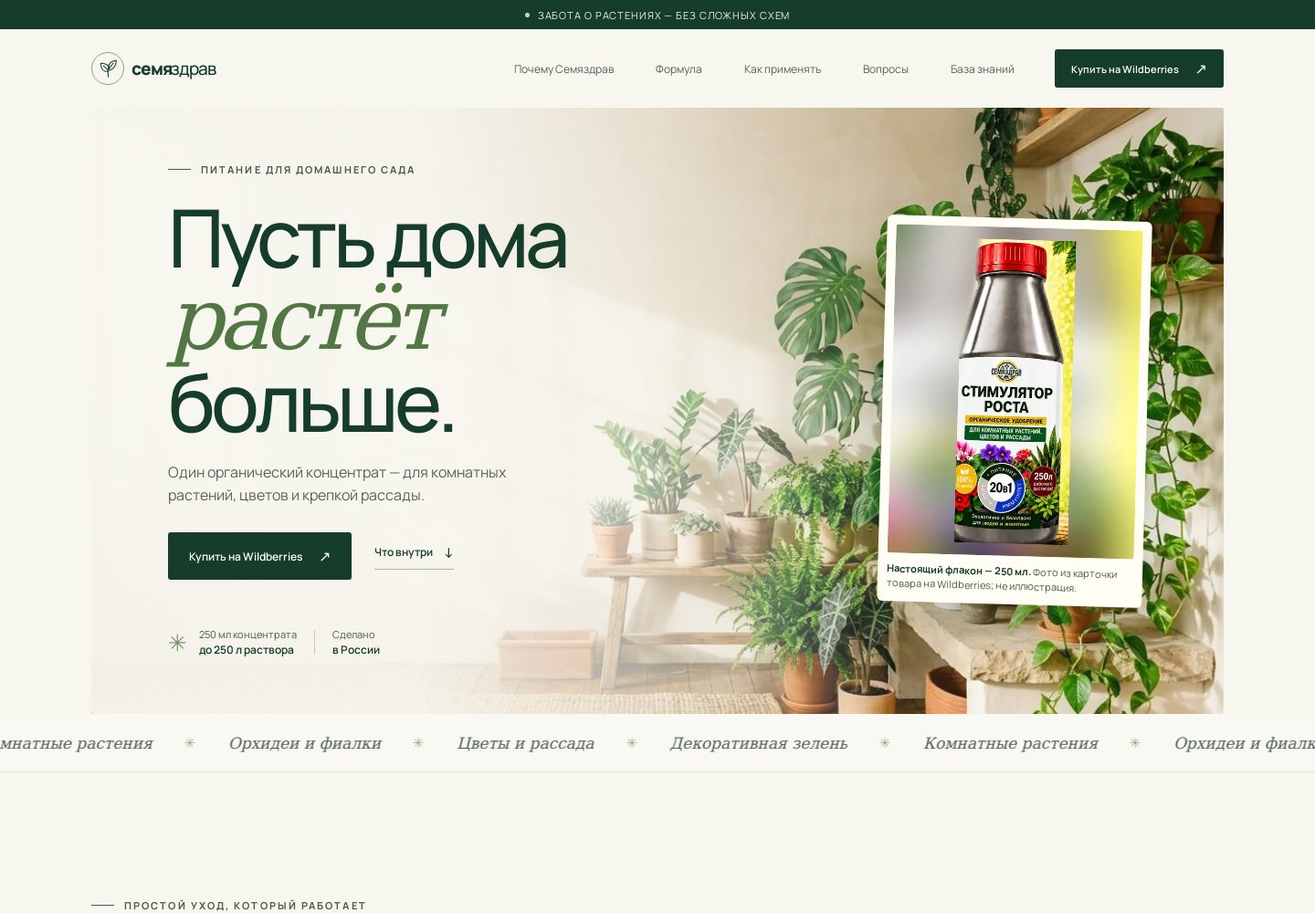
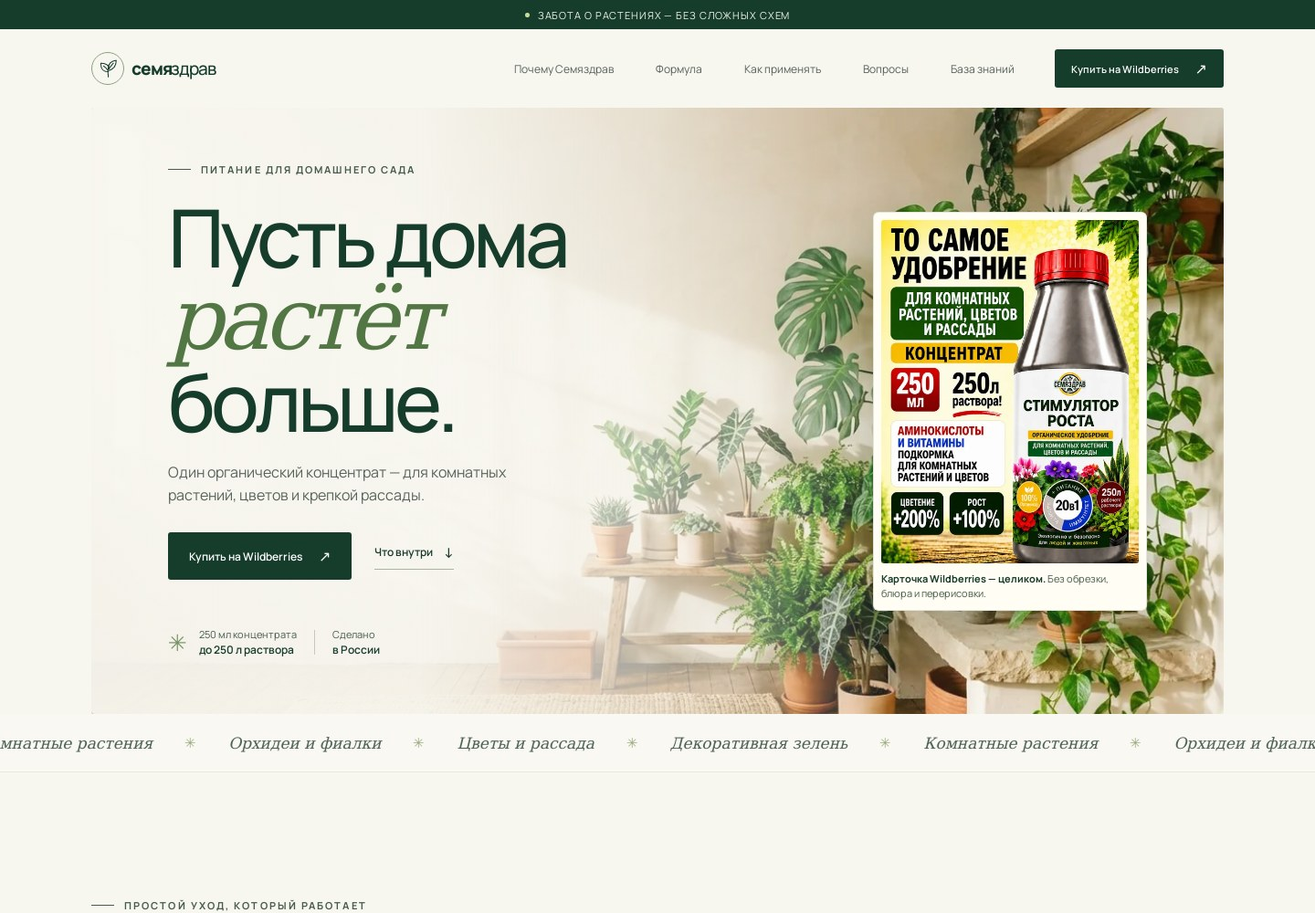
Переделать подачу товара на цельную карточку WB

diff --git a/index.html b/index.html
@@ -31,7 +31,7 @@
   <link rel="preload" href="public/fonts/manrope-cyrillic-400-normal.woff2" as="font" type="font/woff2" crossorigin>
   <link rel="stylesheet" href="public/fonts/fonts.css">
   <link rel="stylesheet" href="styles.css">
-  <script type="application/ld+json">{"@context":"https://schema.org","@graph":[{"@type":"Organization","@id":"https://semyazdrav.ru/#organization","name":"Семяздрав","url":"https://semyazdrav.ru/","logo":"https://semyazdrav.ru/public/images/icon-512.png"},{"@type":"WebSite","@id":"https://semyazdrav.ru/#website","name":"Семяздрав","url":"https://semyazdrav.ru/","inLanguage":"ru-RU","publisher":{"@id":"https://semyazdrav.ru/#organization"}},{"@type":"Product","name":"Семяздрав — стимулятор роста, органическое удобрение для комнатных растений, цветов и рассады","description":"Жидкий органический концентрат 250 мл для комнатных растений, цветов и рассады: до 250 литров рабочего раствора.","image":"https://semyazdrav.ru/public/images/product/bottle-front-516.jpg","brand":{"@type":"Brand","name":"Семяздрав"},"category":"Удобрения для растений","additionalProperty":[{"@type":"PropertyValue","name":"Объём","value":"250 мл"},{"@type":"PropertyValue","name":"Объём рабочего раствора","value":"до 250 л"},{"@type":"PropertyValue","name":"NPK","value":"1,1 / 3,3 / 7,1"},{"@type":"PropertyValue","name":"Срок годности","value":"48 месяцев"},{"@type":"PropertyValue","name":"Страна производства","value":"Россия"}]},{"@type":"FAQPage","mainEntity":[{"@type":"Question","name":"Для каких растений подходит Семяздрав?","acceptedAnswer":{"@type":"Answer","text":"Для комнатных растений, цветов и рассады. В том числе для орхидей, фиалок, фикусов, гардений и пальм."}},{"@type":"Question","name":"Какой объём раствора получится из флакона?","acceptedAnswer":{"@type":"Answer","text":"Флакона 250 мл достаточно для приготовления до 250 литров рабочего раствора. Для расчёта дозировки учитывайте инструкцию на этикетке."}},{"@type":"Question","name":"Можно поливать и опрыскивать?","acceptedAnswer":{"@type":"Answer","text":"Да, удобрение предназначено для корневого внесения (полива) и внекорневого внесения (опрыскивания)."}},{"@type":"Question","name":"Когда можно применять удобрение?","acceptedAnswer":{"@type":"Answer","text":"В описании продукта указан круглогодичный период применения. Частоту и нормы подкормки выбирайте по инструкции на упаковке и состоянию растения."}},{"@type":"Question","name":"Где купить Семяздрав?","acceptedAnswer":{"@type":"Answer","text":"Нажмите «Купить на Wildberries» — откроется карточка продукта. Wildberries не является продавцом товара; данные о продавце указаны на площадке."}}]}]}</script>
+  <script type="application/ld+json">{"@context":"https://schema.org","@graph":[{"@type":"Organization","@id":"https://semyazdrav.ru/#organization","name":"Семяздрав","url":"https://semyazdrav.ru/","logo":"https://semyazdrav.ru/public/images/icon-512.png"},{"@type":"WebSite","@id":"https://semyazdrav.ru/#website","name":"Семяздрав","url":"https://semyazdrav.ru/","inLanguage":"ru-RU","publisher":{"@id":"https://semyazdrav.ru/#organization"}},{"@type":"Product","name":"Семяздрав — стимулятор роста, органическое удобрение для комнатных растений, цветов и рассады","description":"Жидкий органический концентрат 250 мл для комнатных растений, цветов и рассады: до 250 литров рабочего раствора.","image":"https://semyazdrav.ru/public/images/product/wb-card-516.jpg","brand":{"@type":"Brand","name":"Семяздрав"},"category":"Удобрения для растений","additionalProperty":[{"@type":"PropertyValue","name":"Объём","value":"250 мл"},{"@type":"PropertyValue","name":"Объём рабочего раствора","value":"до 250 л"},{"@type":"PropertyValue","name":"NPK","value":"1,1 / 3,3 / 7,1"},{"@type":"PropertyValue","name":"Срок годности","value":"48 месяцев"},{"@type":"PropertyValue","name":"Страна производства","value":"Россия"}]},{"@type":"FAQPage","mainEntity":[{"@type":"Question","name":"Для каких растений подходит Семяздрав?","acceptedAnswer":{"@type":"Answer","text":"Для комнатных растений, цветов и рассады. В том числе для орхидей, фиалок, фикусов, гардений и пальм."}},{"@type":"Question","name":"Какой объём раствора получится из флакона?","acceptedAnswer":{"@type":"Answer","text":"Флакона 250 мл достаточно для приготовления до 250 литров рабочего раствора. Для расчёта дозировки учитывайте инструкцию на этикетке."}},{"@type":"Question","name":"Можно поливать и опрыскивать?","acceptedAnswer":{"@type":"Answer","text":"Да, удобрение предназначено для корневого внесения (полива) и внекорневого внесения (опрыскивания)."}},{"@type":"Question","name":"Когда можно применять удобрение?","acceptedAnswer":{"@type":"Answer","text":"В описании продукта указан круглогодичный период применения. Частоту и нормы подкормки выбирайте по инструкции на упаковке и состоянию растения."}},{"@type":"Question","name":"Где купить Семяздрав?","acceptedAnswer":{"@type":"Answer","text":"Нажмите «Купить на Wildberries» — откроется карточка продукта. Wildberries не является продавцом товара; данные о продавце указаны на площадке."}}]}]}</script>
   <script src="script.js" defer></script>
 </head>
 <body>
@@ -67,7 +67,7 @@
         </div>
         <div class="hero__proof"><span class="proof-icon">✳</span><span>250 мл концентрата<br><b>до 250 л раствора</b></span><span class="proof-divider"></span><span>Сделано<br><b>в России</b></span></div>
       </div>
-<figure class="hero__product"><picture><source type="image/webp" srcset="public/images/product/bottle-front-360.webp 360w, public/images/product/bottle-front-516.webp 516w" sizes="(max-width: 720px) 225px, 290px"><img src="public/images/product/bottle-front-360.jpg" srcset="public/images/product/bottle-front-360.jpg 360w, public/images/product/bottle-front-516.jpg 516w" sizes="(max-width: 720px) 225px, 290px" width="360" height="480" alt="Флакон концентрата «Семяздрав» 250 мл с красной крышкой, на этикетке — «Стимулятор роста»"></picture><figcaption><b>Настоящий флакон — 250 мл.</b> Фото из карточки товара на Wildberries; не иллюстрация.</figcaption></figure>
+<figure class="hero__product"><picture><source type="image/webp" srcset="public/images/product/wb-card-360.webp 360w, public/images/product/wb-card-516.webp 516w" sizes="(max-width: 720px) 225px, 300px"><img src="public/images/product/wb-card-360.jpg" srcset="public/images/product/wb-card-360.jpg 360w, public/images/product/wb-card-516.jpg 516w" sizes="(max-width: 720px) 225px, 300px" width="360" height="480" alt="Официальная карточка товара «Семяздрав» на Wildberries: флакон концентрата 250 мл"></picture><figcaption><b>Карточка Wildberries — целиком.</b> Без обрезки, блюра и перерисовки.</figcaption></figure>
     </section>
 
     <section class="ticker" aria-label="Для разных растений">
@@ -104,12 +104,11 @@
     <section class="formula section-space" id="formula">
       <div class="formula__inner section-wrap">
         <div class="formula__visual">
-          <div class="formula__orb formula__orb--one"></div><div class="formula__orb formula__orb--two"></div>
+          <picture><source type="image/webp" srcset="public/images/botanical/droplet-leaf-480.webp 480w, public/images/botanical/droplet-leaf-800.webp 800w" sizes="(max-width: 720px) 100vw, 42vw"><img class="formula__bg" src="public/images/botanical/droplet-leaf-800.jpg" srcset="public/images/botanical/droplet-leaf-480.jpg 480w, public/images/botanical/droplet-leaf-800.jpg 800w" sizes="(max-width: 720px) 100vw, 42vw" width="800" height="436" alt="Капля воды на зелёном листе крупным планом" loading="lazy"></picture>
+          <div class="formula__shade"></div>
           <div class="formula__number">01<span>/</span>04</div>
           <div class="molecule molecule--a">N</div><div class="molecule molecule--b">K</div><div class="molecule molecule--c">P</div>
-          <div class="formula__leaf formula__leaf--one"><svg viewBox="0 0 180 220"><path d="M150 15C42 18 2 77 28 143c15 37 55 49 85 20 43-42 44-100 37-148Z"/><path d="M17 204c29-67 68-114 126-160"/><path d="M73 139c-9-22-14-41-15-59M99 106c23-1 41 0 61 6"/></svg></div>
-          <div class="formula__leaf formula__leaf--two"><svg viewBox="0 0 180 220"><path d="M150 15C42 18 2 77 28 143c15 37 55 49 85 20 43-42 44-100 37-148Z"/><path d="M17 204c29-67 68-114 126-160"/><path d="M73 139c-9-22-14-41-15-59M99 106c23-1 41 0 61 6"/></svg></div>
-          <img class="formula__photo" src="public/images/botanical/droplet-leaf-480.jpg" width="480" height="262" alt="Капля воды на зелёном листе крупным планом" loading="lazy"><div class="formula__glow"></div><div class="formula__visual-label">ПРИРОДНАЯ<br>СИЛА РОСТА</div>
+          <div class="formula__visual-label">ПРИРОДНАЯ<br>СИЛА РОСТА</div>
         </div>
         <div class="formula__content">
           <p class="eyebrow eyebrow--light"><span class="eyebrow__line"></span> ФОРМУЛА СЕМЯЗДРАВ</p>
@@ -159,7 +158,7 @@
 
     <section class="product section-space" id="product">
       <div class="product__inner section-wrap">
-        <div class="product-gallery"><figure class="product-gallery__main"><picture><source type="image/webp" srcset="public/images/product/bottle-front-360.webp 360w, public/images/product/bottle-front-516.webp 516w" sizes="(max-width: 720px) 100vw, 46vw"><img src="public/images/product/bottle-front-516.jpg" srcset="public/images/product/bottle-front-360.jpg 360w, public/images/product/bottle-front-516.jpg 516w" sizes="(max-width: 720px) 100vw, 46vw" width="516" height="688" alt="Флакон «Семяздрав» 250 мл: серебристый флакон с красной крышкой, этикетка «Стимулятор роста — органическое удобрение для комнатных растений, цветов и рассады»" loading="lazy"></picture><figcaption>Фактическая упаковка товара с Wildberries. Это фрагмент фото из карточки: вырезана только часть слайда с флаконом, этикетка не перерисована.</figcaption></figure><div class="product-gallery__row"><figure><picture><source type="image/webp" srcset="public/images/product/bottle-label-216.webp"><img src="public/images/product/bottle-label-216.jpg" width="216" height="278" alt="Этикетка флакона крупным планом: название и назначение удобрения" loading="lazy"></picture><figcaption>Этикетка крупным планом*</figcaption></figure><figure><picture><source type="image/webp" srcset="public/images/product/bottle-cap-205.webp"><img src="public/images/product/bottle-cap-205.jpg" width="205" height="205" alt="Красная крышка и горлышко флакона крупным планом" loading="lazy"></picture><figcaption>Крышка и горлышко*</figcaption></figure></div><p class="product-gallery__note">*Фрагменты того же снимка. Полная галерея карточки — 8 фото — <a href="https://www.wildberries.ru/catalog/784598331/detail.aspx" target="_blank" rel="noopener noreferrer">на Wildberries ↗</a>.</p></div>
+        <div class="product-gallery"><figure class="product-gallery__main"><picture><source type="image/webp" srcset="public/images/product/wb-card-360.webp 360w, public/images/product/wb-card-516.webp 516w" sizes="(max-width: 720px) 100vw, 46vw"><img src="public/images/product/wb-card-516.jpg" srcset="public/images/product/wb-card-360.jpg 360w, public/images/product/wb-card-516.jpg 516w" sizes="(max-width: 720px) 100vw, 46vw" width="516" height="688" alt="Официальный слайд карточки Wildberries с флаконом «Семяздрав» 250 мл" loading="lazy"></picture><figcaption>Официальный слайд карточки Wildberries целиком — без обрезки, блюра и перерисовки этикетки.</figcaption></figure><div class="product-gallery__row"><figure><picture><source type="image/webp" srcset="public/images/product/bottle-label-216.webp"><img src="public/images/product/bottle-label-216.jpg" width="216" height="278" alt="Этикетка флакона крупным планом: название и назначение удобрения" loading="lazy"></picture><figcaption>Этикетка крупным планом</figcaption></figure><figure><picture><source type="image/webp" srcset="public/images/product/bottle-cap-205.webp"><img src="public/images/product/bottle-cap-205.jpg" width="205" height="205" alt="Красная крышка и горлышко флакона крупным планом" loading="lazy"></picture><figcaption>Крышка и горлышко</figcaption></figure></div><p class="product-gallery__note">Миниатюры выше — увеличенные детали того же официального слайда. Полная галерея карточки — 8 фото — <a href="https://www.wildberries.ru/catalog/784598331/detail.aspx" target="_blank" rel="noopener noreferrer">на Wildberries ↗</a>.</p></div>
         <div class="product__info"><p class="eyebrow"><span class="eyebrow__line"></span> ЗНАКОМЬТЕСЬ — ВАШ ПОМОЩНИК</p><h2>Универсальный<br><em>биоконцентрат.</em></h2><p class="product__intro">Семяздрав для комнатных растений, цветов и рассады — жидкая комплексная подкормка для полива и опрыскивания.</p>
           <div class="product__facts"><div><span>Объём</span><b>250 мл</b></div><div><span>Рабочего раствора</span><b>до 250 л</b></div><div><span>Срок годности</span><b>48 месяцев</b></div><div><span>Производство</span><b>Россия</b></div><div><span>Размер упаковки</span><b>7 × 7 × 15 см</b></div><div><span>Вес товара</span><b>270 г</b></div></div>
           <a class="button button--dark button--wide" href="https://www.wildberries.ru/catalog/784598331/detail.aspx" target="_blank" rel="noopener noreferrer">Купить на Wildberries <span aria-hidden="true">↗</span></a>
@@ -190,7 +189,7 @@
 
     <section class="closing section-wrap">
       <div class="closing__content"><p class="eyebrow eyebrow--light"><span class="eyebrow__line"></span> ВРЕМЯ ДЛЯ НОВЫХ ЛИСТЬЕВ</p><h2>Растите<br><em>с любовью.</em></h2><p>Начните с простого: немного внимания, воды и правильного питания.</p><a class="button button--cream" href="https://www.wildberries.ru/catalog/784598331/detail.aspx" target="_blank" rel="noopener noreferrer">Купить на Wildberries <span aria-hidden="true">↗</span></a></div>
-      <div class="closing__art" aria-hidden="true"><div class="closing__sun"></div><div class="closing__stem"></div><div class="closing__leaf closing__leaf--a"></div><div class="closing__leaf closing__leaf--b"></div><div class="closing__leaf closing__leaf--c"></div><div class="closing__pot"></div></div>
+      <figure class="closing__media"><picture><source type="image/webp" srcset="public/images/plants/leafy-480.webp 480w, public/images/plants/leafy-800.webp 800w" sizes="(max-width: 720px) 100vw, 46vw"><img src="public/images/plants/leafy-800.jpg" srcset="public/images/plants/leafy-480.jpg 480w, public/images/plants/leafy-800.jpg 800w" sizes="(max-width: 720px) 100vw, 46vw" width="800" height="436" alt="" loading="lazy"></picture></figure>
     </section>
     <section class="partner section-wrap" aria-labelledby="partner-title">
       <div class="partner__inner">

diff --git a/styles.css b/styles.css
@@ -44,8 +44,8 @@ a:focus-visible,button:focus-visible,summary:focus-visible,input:focus-visible,[
 .hero{display:grid;grid-template-columns:minmax(0,1.12fr) minmax(220px,.58fr);align-items:center;gap:clamp(22px,4vw,56px);height:auto;min-height:600px;padding:clamp(30px,5vw,60px) clamp(24px,6vw,84px)}
 .hero>picture{position:absolute;inset:0;z-index:-3}
 .hero__content{position:relative;left:auto;top:auto;transform:none;z-index:2}
-.hero__product{position:relative;z-index:2;margin:0;justify-self:end;width:min(290px,100%);background:#fffdf4;padding:10px 10px 12px;box-shadow:0 24px 60px rgba(22,60,43,.22);transform:rotate(1.6deg);border-radius:6px}
-.hero__product img{display:block;width:100%;height:auto;aspect-ratio:3/4;object-fit:cover;border-radius:3px}
+.hero__product{position:relative;z-index:2;margin:0;justify-self:end;width:min(300px,100%);background:#fffdf4;padding:8px 8px 10px;box-shadow:0 24px 60px rgba(22,60,43,.22);border:1px solid rgba(22,60,43,.12);border-radius:6px}
+.hero__product img{display:block;width:100%;height:auto;aspect-ratio:3/4;object-fit:contain;background:#fff;border-radius:3px}
 .hero__product figcaption{font-size:11px;line-height:1.5;color:#475c4c;padding-top:9px}
 .hero__product figcaption b{color:var(--forest)}
 .hero__stamp,.hero__caption{display:none}
@@ -61,7 +61,7 @@ a:focus-visible,button:focus-visible,summary:focus-visible,input:focus-visible,[
 .plant-card__no{z-index:3;top:14px;left:14px;background:rgba(247,246,239,.92);padding:5px 9px;border-radius:2px}
 .plant-card__text{padding:18px 22px 24px}
 /* формула и шаги: фотографии */
-.formula__photo{position:absolute;right:28px;top:70px;width:185px;height:185px;object-fit:cover;border-radius:50%;border:6px solid rgba(244,242,233,.25);z-index:3}
+.formula__visual{background:#163c2b}.formula__bg{position:absolute;inset:0;width:100%;height:100%;object-fit:cover;object-position:center}.formula__shade{position:absolute;inset:0;z-index:1;background:linear-gradient(180deg,rgba(16,46,34,.10),rgba(16,46,34,.48))}.formula__visual:before{z-index:2}.formula__visual-label{z-index:3;text-shadow:0 1px 8px rgba(16,46,34,.45)}
 .how__photo{margin:26px 0 0}.how__photo img{display:block;width:100%;height:225px;object-fit:cover;border-radius:3px}
 .how__photo figcaption{font-size:11px;color:#475c4c;margin-top:8px}
 /* калькулятор: честная подпись диапазона */
@@ -72,7 +72,7 @@ a:focus-visible,button:focus-visible,summary:focus-visible,input:focus-visible,[
 .product__inner>*{min-width:0}
 .product-gallery figure{margin:0;min-width:0}
 .product-gallery__main{background:#fffdf4;padding:12px;box-shadow:0 20px 50px rgba(22,60,43,.14);border-radius:6px}
-.product-gallery__main img{display:block;width:100%;max-width:100%;height:auto;aspect-ratio:3/4;object-fit:cover;border-radius:3px}
+.product-gallery__main img{display:block;width:100%;max-width:100%;height:auto;aspect-ratio:3/4;object-fit:contain;background:#fff;border-radius:3px}
 .product-gallery figcaption{font-size:11px;line-height:1.55;color:#475c4c;padding-top:10px}
 .product-gallery__row{display:grid;grid-template-columns:repeat(2,minmax(0,1fr));gap:12px;margin-top:12px}
 .product-gallery__row figure{background:#eeeee5;padding:10px;border-radius:4px}
@@ -129,7 +129,7 @@ a:focus-visible,button:focus-visible,summary:focus-visible,input:focus-visible,[
  .hero__content{left:auto;right:auto;top:auto}
  .hero__product{justify-self:start;width:min(225px,74vw)}
  .hero__actions .button{font-size:12px}
- .formula__photo{width:125px;height:125px;right:16px;top:52px}
+ .formula__bg{object-position:center}
  .plant-card{height:auto}.plant-card__media{height:160px}
  .product-gallery__row img{height:120px}
  .partner__inner{grid-template-columns:1fr}.partner__media{min-height:200px;max-height:240px}
@@ -144,3 +144,10 @@ a:focus-visible,button:focus-visible,summary:focus-visible,input:focus-visible,[
 }
 .partner__content h2{font-size:clamp(27px,3.4vw,38px);margin:0}
 @media(max-width:720px){.footer{display:flex;flex-direction:column;align-items:flex-start;gap:8px}.footer>p{grid-column:auto;grid-row:auto}}
+/* === Переделка продуктовой подачи по ревью владельца: карточка WB целиком === */
+.doc-main .doc-cover--card{width:min(430px,100%);height:auto;max-height:none;object-fit:contain;margin:18px auto 28px;background:#fffdf4;padding:10px;border:1px solid #e0dfd2;box-shadow:0 18px 45px rgba(22,60,43,.12)}
+.closing__media{position:absolute;top:0;right:0;width:min(46%,560px);height:100%;margin:0;overflow:hidden}
+.closing__media img{display:block;width:100%;height:100%;object-fit:cover;object-position:center}
+.closing__media:after{content:"";position:absolute;inset:0;background:linear-gradient(90deg,var(--forest) 0%,rgba(22,60,43,.72) 20%,rgba(22,60,43,0) 58%)}
+.closing__content{max-width:640px}
+@media(max-width:720px){.closing__media{top:auto;bottom:0;width:100%;height:46%}.closing__media:after{background:linear-gradient(180deg,var(--forest) 0%,rgba(22,60,43,.62) 42%,rgba(22,60,43,0) 78%)}}

diff --git a/about-product.html b/about-product.html
@@ -45,7 +45,7 @@
     <h1>Что такое <em>«Семяздрав»</em></h1>
     <p class="lead">«Семяздрав» — жидкий органический концентрат (стимулятор роста) для комнатных растений, цветов и рассады. Один флакон 250&nbsp;мл рассчитан на приготовление до 250&nbsp;литров рабочего раствора для полива и опрыскивания.</p>
 
-    <img class="doc-cover" src="public/images/product/bottle-front-516.jpg" width="516" height="688" alt="Флакон «Семяздрав» 250 мл с этикеткой «Стимулятор роста»" loading="lazy">
+    <img class="doc-cover doc-cover--card" src="public/images/product/wb-card-516.jpg" width="516" height="688" alt="Официальная карточка товара «Семяздрав» на Wildberries: флакон концентрата 250 мл" loading="lazy">
 
     <div class="doc-facts">
       <div><span>Объём</span><b>250 мл</b></div>

diff --git a/scripts/check_site.py b/scripts/check_site.py
@@ -317,8 +317,8 @@ def main() -> int:
                     err("manifest.webmanifest", f"icon missing: {icon.get('src')}")
         except json.JSONDecodeError as exc:
             err("manifest.webmanifest", f"invalid JSON: {exc}")
-    if not (ROOT / "public/images/product/bottle-front-516.jpg").exists():
-        err("public/images/product/bottle-front-516.jpg", "real product photo derivative missing")
+    if not (ROOT / "public/images/product/wb-card-516.jpg").exists():
+        err("public/images/product/wb-card-516.jpg", "real product photo derivative missing")
     if not (ROOT / "public/images/SOURCES.md").exists():
         err("public/images/SOURCES.md", "image provenance file missing")
 

diff --git a/docs/audit/SITE-AUDIT-2026-10-24.md b/docs/audit/SITE-AUDIT-2026-10-24.md
@@ -173,10 +173,10 @@ PY
 
 | Задача | Статус | Что сделано |
 |---|---|---|
-| A6 #7 реальные фото | ✅ частично+ | Найден настоящий флакон в публичной карточке WB 784598331 (слайд 1, 516×688) через поиск по изображениям; сделаны чистый кроп без инфографики «+200%», детали этикетки/крышки, WebP/JPEG, OG с настоящим флаконом, `public/images/SOURCES.md`. Остаток: ещё 7 фото карточки недоступны из песочницы (Brave индексирует только слайд 1, CDN закрыт, капча не обходилась) — нужны оригиналы из кабинета продавца |
+| A6 #7 реальные фото | ✅ частично+ | Найден настоящий флакон в публичной карточке WB 784598331 (слайд 1, 516×688) через поиск по изображениям. После ревью владельца первоначальный кроп с размытыми полями полностью убран: официальный слайд Wildberries показывается целиком (`wb-card-516/360`, только resize/перекодирование), детали этикетки/крышки оставлены как увеличенные фрагменты того же слайда, OG и партнёрские баннеры пересобраны с карточкой целиком, `public/images/SOURCES.md`. Тексты и обещания внутри самого слайда — часть исходной карточки продавца и в авторские тексты сайта не переносились. Остаток: ещё 7 фото карточки недоступны из песочницы (Brave индексирует только слайд 1, CDN закрыт, капча не обходилась) — нужны оригиналы из кабинета продавца |
 | A1 #2 доступность | ✅ | Семантически затемнены все мелкие тексты до AA (токены `#475c4c/#4a5d50` и др.), `:focus-visible`, skip-link, тач-цели ≥40px, меню Escape/клик-вне, калькулятор: честная подпись «ползунок до 20 л», `aria-live`, `aria-pressed`, `aria-valuetext`; ticker с visually-hidden версией и статикой при reduced motion; `width/height` у всех изображений (сторожит чекер) |
 | A7 #8 чекер | ✅ | `scripts/check_site.py` (zero-dependency) + `make check` + GitHub Actions. Падение на чужом product id проверено вручную (exit 1), на чистом дереве — OK: 31 страница, 62 ссылки WB, все на 784598331 |
-| A2 #3 полировка | ✅ | Hero перестроен в сетку с карточкой реального флакона, штамп/подпись убраны, ticker не обрезан, значимый текст ≥11px, фотографии в карточках растений/статей |
+| A2 #3 полировка | ✅ | Hero перестроен в сетку с официальной карточкой Wildberries целиком в рамке (без наклона, кропа и блюра), штамп/подпись убраны, ticker не обрезан, значимый текст ≥11px, фотографии в карточках растений/статей; секция формулы и финальный CTA после ревью владельца переведены с абстрактной графики на фотоподложки листа с каплей и комнатных растений |
 | A4 #5 контент-аудит | ✅ | `docs/content/AUDIT-2026-10.md` (базовый снимок 25 статей) + `docs/content/PLAN-2026-10.md` |
 | A9 #10 производительность | ✅ | Google Fonts удалён; Manrope self-host WOFF2 (cyrillic+latin, OFL), DM Sans убран за отсутствием кириллицы; responsive WebP/JPEG + `srcset` везде, `404.html`, `manifest.webmanifest`, иконки 192/512/apple-touch |
 | A3 #4 технический SEO | ✅ | JSON-LD `Organization`/`WebSite`/`Product` (без цен/рейтингов)/`FAQPage`, meta keywords удалён, все title 50–62 и description 140–160, `datePublished/dateModified` на статью, тематические OG у статей, sitemap 29 URL, инструкция `docs/seo/SEARCH-CONSOLE.md` |
@@ -198,5 +198,9 @@ PY
 - `privacy.html`: длинное слово «конфиденциальности» переносится по мягкому дефису;
 - библиотека: добавлен отсутствовавший `.section-wrap`, карточки и поиск больше не прилипают к краям экрана;
 - заменены рискованные глифы `＋`, `／`, `⌕` на `+`, `/` и inline-SVG поиска.
+
+### Поправка после ревью владельца (24.10.2026)
+
+Владелец отклонил первую подачу продукта — кроп флакона с размытыми полями. В этой же ветке PR #12 подача переделана по прямому указанию «просто вставить карточку WB»: удалены `bottle-front-*` и `bottle-crop-*`, добавлены `wb-card-516.*` и `wb-card-360.*` (полный официальный слайд 516×688 / 360×480, только resize и перекодирование), hero больше не наклонён, галерея и `about-product.html` показывают слайд целиком, Product JSON-LD, OG-обложка и три баннера `fermaruna-to-semyazdrav` пересобраны на той же цельной карточке. Абстрактные визуалы формулы и финального CTA заменены фотографичными подложками. Скриншоты главной 1440/768/390 пересняты, добавлен отдельный кадр галереи товара; автоматический проход всех 31 страниц на 320/390/1440 после поправки снова дал 93/93 без переливов и ошибок.
 
 Lighthouse в песочнице не запускали: современный Chrome/Lighthouse там недоступен, поэтому баллы Performance/Accessibility/Best Practices/SEO в этом аудите не заявляются. Команды для воспроизводимого запуска после merge приведены выше; статическая база для хороших баллов заложена (self-host шрифтов, responsive WebP/JPEG, размеры изображений, отсутствие внешних трекеров и блокирующих CDN).

diff --git a/partners/handoff-fermaruna.md b/partners/handoff-fermaruna.md
@@ -9,7 +9,7 @@
 ## Ассеты (уже лежат в этом пакете)
 
 - Локап: `partners/logos/semyazdrav-logo.svg` (+ PNG 680/1360 на всякий случай). Скопировать в `assets/img/` репозитория fermaruna.
-- Фото флакона (реальное, не иллюстрация): `public/images/product/bottle-front-516.jpg` из репозитория semyazdrav — или готовый баннер `partners/banners/fermaruna-to-semyazdrav-1200x300.png` как есть.
+- Официальная карточка товара Wildberries целиком (не иллюстрация): `public/images/product/wb-card-516.jpg` из репозитория semyazdrav — или готовый баннер `partners/banners/fermaruna-to-semyazdrav-1200x300.png` как есть.
 - Текст — нейтральный вариант из `partners/copy.md`.
 - Ссылка: `https://semyazdrav.ru/?utm_source=fermaruna&utm_medium=partner&utm_campaign=crosspromo_2026q4` (`target="_blank" rel="noopener noreferrer"`).
 
@@ -25,7 +25,7 @@
     <p>Органический концентрат для комнатных растений, цветов и рассады и спокойная база знаний по уходу за домашним садом.</p>
     <a class="sz-partner__link" href="https://semyazdrav.ru/?utm_source=fermaruna&utm_medium=partner&utm_campaign=crosspromo_2026q4" target="_blank" rel="noopener noreferrer">Перейти на semyazdrav.ru ↗</a>
   </div>
-  <img class="sz-partner__photo" src="assets/img/semyazdrav-bottle.jpg" width="516" height="688" alt="Флакон концентрата «Семяздрав» 250 мл" loading="lazy">
+  <img class="sz-partner__photo" src="assets/img/semyazdrav-card.jpg" width="516" height="688" alt="Карточка товара «Семяздрав» на Wildberries: флакон концентрата 250 мл" loading="lazy">
 </section>
 ```
 
@@ -41,7 +41,7 @@
 @media (max-width:640px){.sz-partner{gap:16px}.sz-partner__photo{width:84px}}
 ```
 
-Файл фото для `assets/img/semyazdrav-bottle.jpg` — это `bottle-front-516.jpg` (переименовать при копировании), локап — `semyazdrav-logo.svg`.
+Файл карточки для `assets/img/semyazdrav-card.jpg` — это `wb-card-516.jpg` (переименовать при копировании), локап — `semyazdrav-logo.svg`.
 
 Альтернатива без вёрстки: поставить готовый баннер `fermaruna-to-semyazdrav-1200x300.png` картинкой-ссылкой (`alt="Семяздрав — пусть дома растёт больше. На semyazdrav.ru"`, `width/height` обязательны). Вёрстка предпочтительнее: текст индексируется и читается скринридерами.
 
@@ -50,5 +50,5 @@
 - Текст — только из `copy.md`; нельзя писать, что ферма использует или рекомендует продукт (см. `PERMISSIONS.md`).
 - После правки шаблонов fermaruna: `python3 scripts/build.py` в её репозитории и коммит сгенерированного результата (по правилам того проекта).
 - Скриншоты 390 и 1440 px: блок не ломает сетку, нет горизонтального скролла, ссылка открывается в новой вкладке, UTM сохраняется в адресной строке semyazdrav.ru.
-- `alt` у фото флакона — информативный (как в сниппете), у локапа — пустой (рядом есть заголовок с названием).
+- `alt` у карточки товара — информативный (как в сниппете), у локапа — пустой (рядом есть заголовок с названием).
 - Не добавлять UTM к ссылкам на Wildberries и не вести с fermaruna напрямую на карточку товара: только на главную semyazdrav.ru с партнёрскими метками.

diff --git a/public/images/SOURCES.md b/public/images/SOURCES.md
@@ -7,11 +7,10 @@
 | Файл | Источник | Правообладатель / разрешение | Обработка |
 |---|---|---|---|
 | `product/source/wb-784598331-slide-01.webp` | Публичная карточка Wildberries, артикул 784598331, слайд 1 (`basket-36.wbcontent.net/vol7845/part784598/784598331/images/c516x688/1.webp`), получен через поиск по изображениям 24.10.2026 | ООО «Плодородие»; использование фото из карточек подтверждено владельцем 24.10.2026 | Исходник без изменений (516×688) |
-| `product/bottle-front-516.*`, `bottle-front-360.*` | Производное от слайда выше | Тот же | Вырезан фрагмент с флаконом (левая инфографика слайда отброшена), портретный холст 3:4 с сильно размытым фоном из того же кадра; обрывки букв инфографики слева от флакона закрыты маской по фону. Пиксели флакона и этикетки не менялись |
-| `product/bottle-crop-238.*` | Тот же слайд | Тот же | Прямоугольный кроп флакона 238×636 без холста |
+| `product/wb-card-516.*`, `wb-card-360.*` | Тот же официальный слайд Wildberries целиком | Тот же | Только resize/перекодирование полного слайда 516×688 → 516×688 и 360×480. Без кропа, блюра, маски и ретуши; по ревью владельца карточка показывается как есть |
 | `product/bottle-label-216.*` | Тот же слайд | Тот же | Фрагмент этикетки крупным планом |
 | `product/bottle-cap-205.*` | Тот же слайд | Тот же | Фрагмент крышки и горлышка |
-| `og-cover.jpg`, `og-cover.webp` | Композиция из `bottle-front` и типографики сайта | Тот же + оформление сайта | Детерминированная сборка (Pillow), текст набран шрифтом Manrope; флакон не изменялся |
+| `og-cover.jpg`, `og-cover.webp` | Типографика сайта + официальный слайд `wb-card-516` целиком в белой рамке справа | Тот же + оформление сайта | Детерминированная сборка (Pillow), текст набран шрифтом Manrope; слайд не обрезан и не изменялся, блюр не используется |
 
 Ограничение: в карточке Wildberries 8 фото (`photo_count: 8` в публичном `card.json` от 24.10.2026), но из рабочей песочницы доступен только слайд 1 — поиск по изображениям индексирует лишь первый слайд, а прямой доступ к CDN Wildberries закрыт политикой сети; капча не обходилась. Для полноценной галереи (оборот этикетки, масштаб, применение) нужны оригиналы из кабинета продавца: положите их в `product/source/` и пересоберите производные по образцу выше. Слайд карточки 795847466 (упаковка 2×250 мл / 500 мл) и карточки 811562496 («Активатор роста» для сада) просмотрены и **не используются**: это другие варианты товара, их фото вводили бы в заблуждение на странице флакона 250 мл.
 

diff --git a/docs/audit/screenshots-2026-10-24/README.md b/docs/audit/screenshots-2026-10-24/README.md
@@ -5,8 +5,9 @@
 - `home-desktop-1440.jpg` — главная, 1440×1000;
 - `home-tablet-768.jpg` — главная, 768×1024;
 - `home-mobile-390.jpg` — главная, 390×844;
+- `product-gallery-desktop-1440.jpg` — галерея товара с официальным слайдом Wildberries целиком (добавлен после ревью владельца);
 - `library-desktop-1440.jpg` — библиотека статей;
 - `article-desktop-1440.jpg` — статья про орхидеи;
 - `partner-desktop-1440.jpg` — партнёрский блок «Ферма Рунская» в viewport.
 
-Отдельным автоматическим проходом проверены все 31 HTML-страница на ширинах 320, 390 и 1440 px (93 комбинации): горизонтального перелива и ошибок страницы/консоли не осталось. В ходе проверки были найдены и исправлены: сдвиг hero из-за `<picture>` в grid-потоке, тесная шапка на 768 px, перелив product-секции на 320 px и длинный заголовок политики конфиденциальности.
+Отдельным автоматическим проходом проверены все 31 HTML-страница на ширинах 320, 390 и 1440 px (93 комбинации): горизонтального перелива и ошибок страницы/консоли не осталось. После ревью владельца скриншоты главной пересняты с официальной карточкой Wildberries целиком (без кропа и блюра), а проход 93 комбинаций повторён. В ходе проверки были найдены и исправлены: сдвиг hero из-за `<picture>` в grid-потоке, тесная шапка на 768 px, перелив product-секции на 320 px и длинный заголовок политики конфиденциальности.
